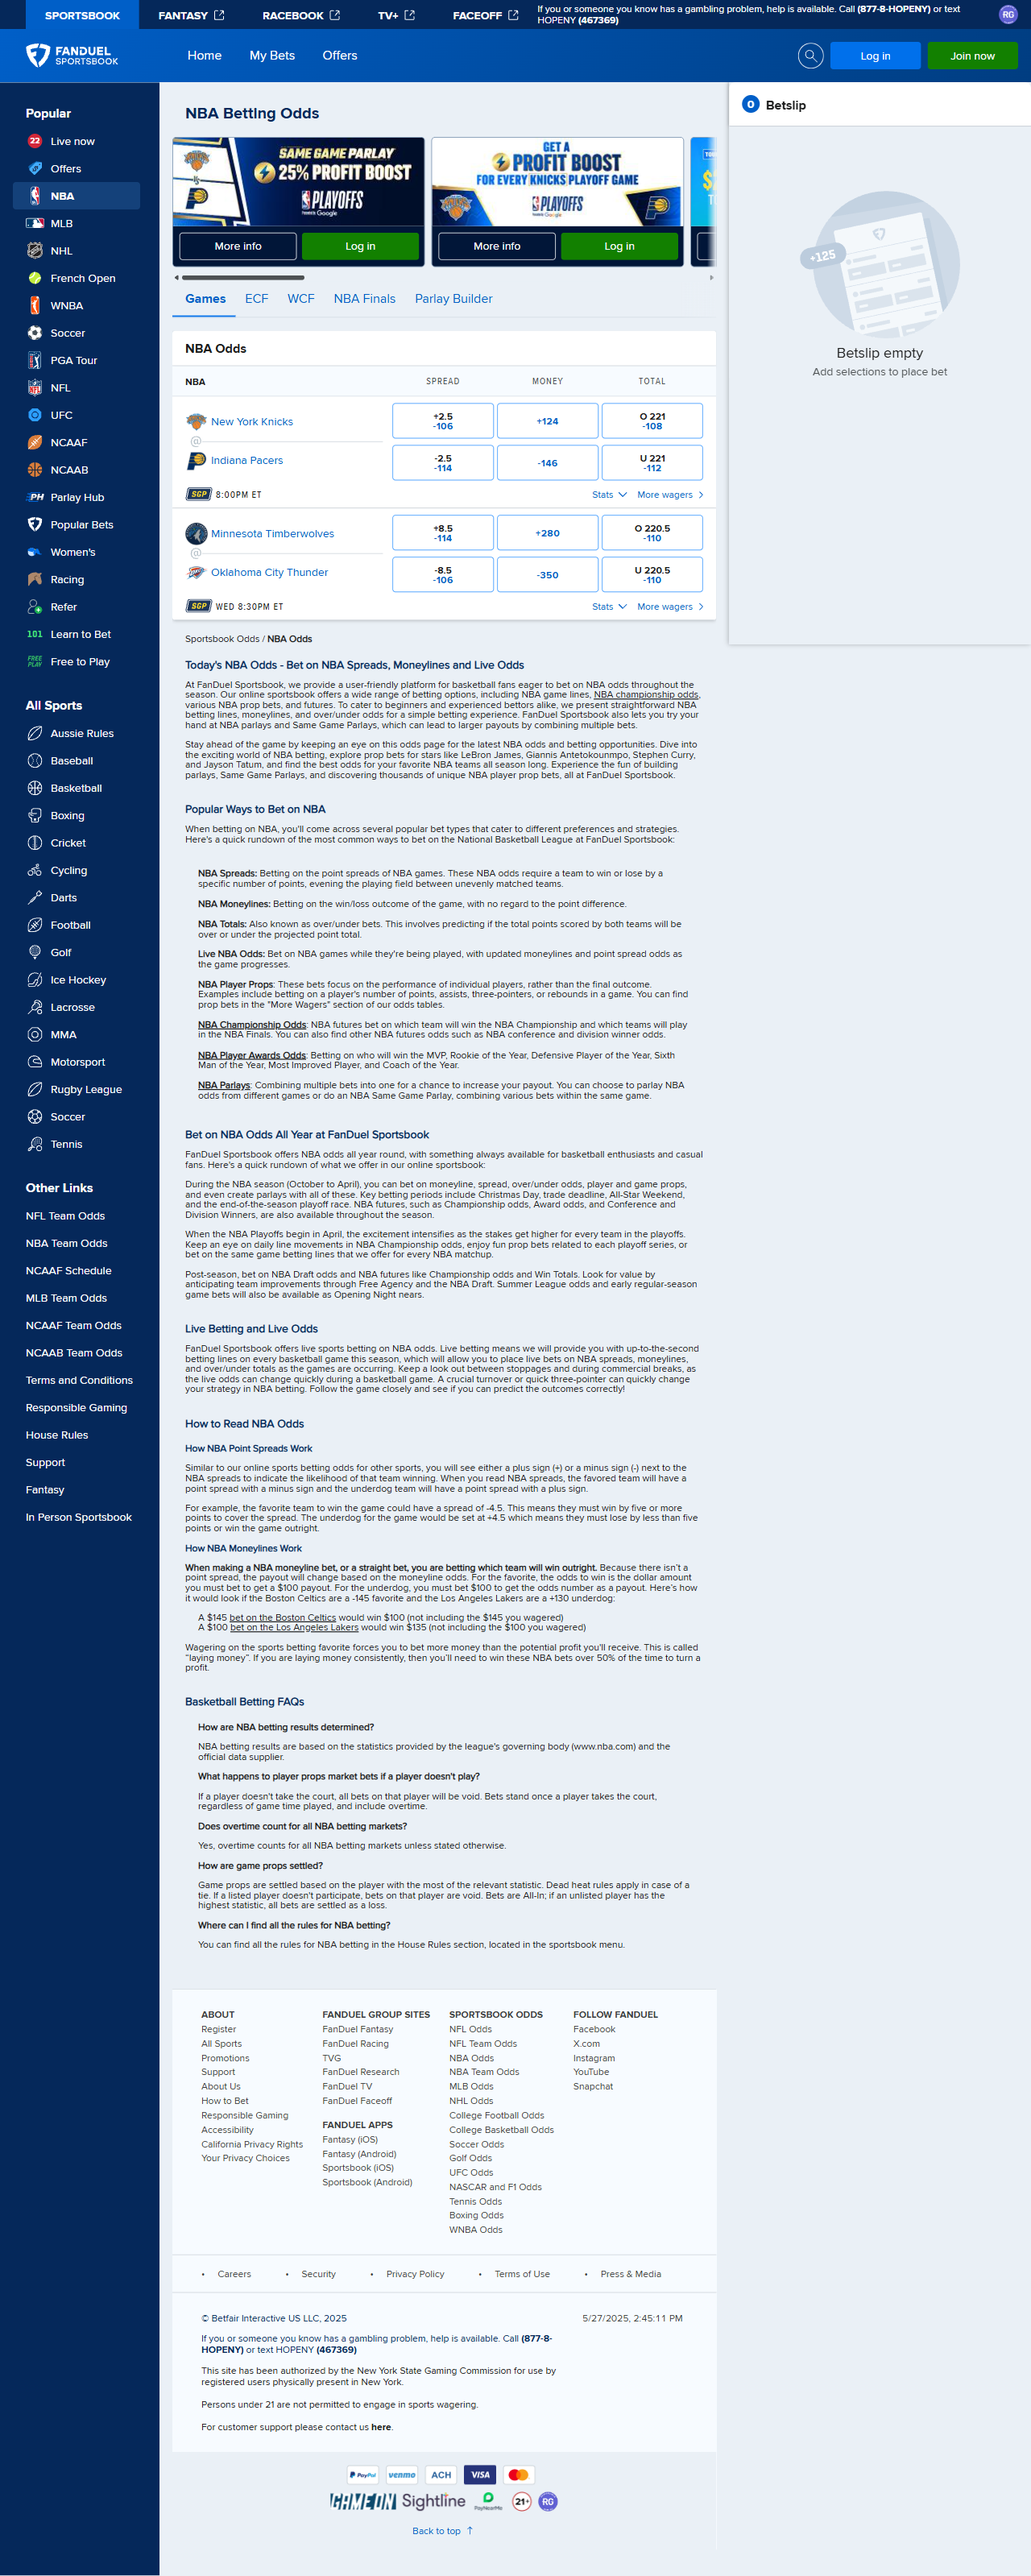
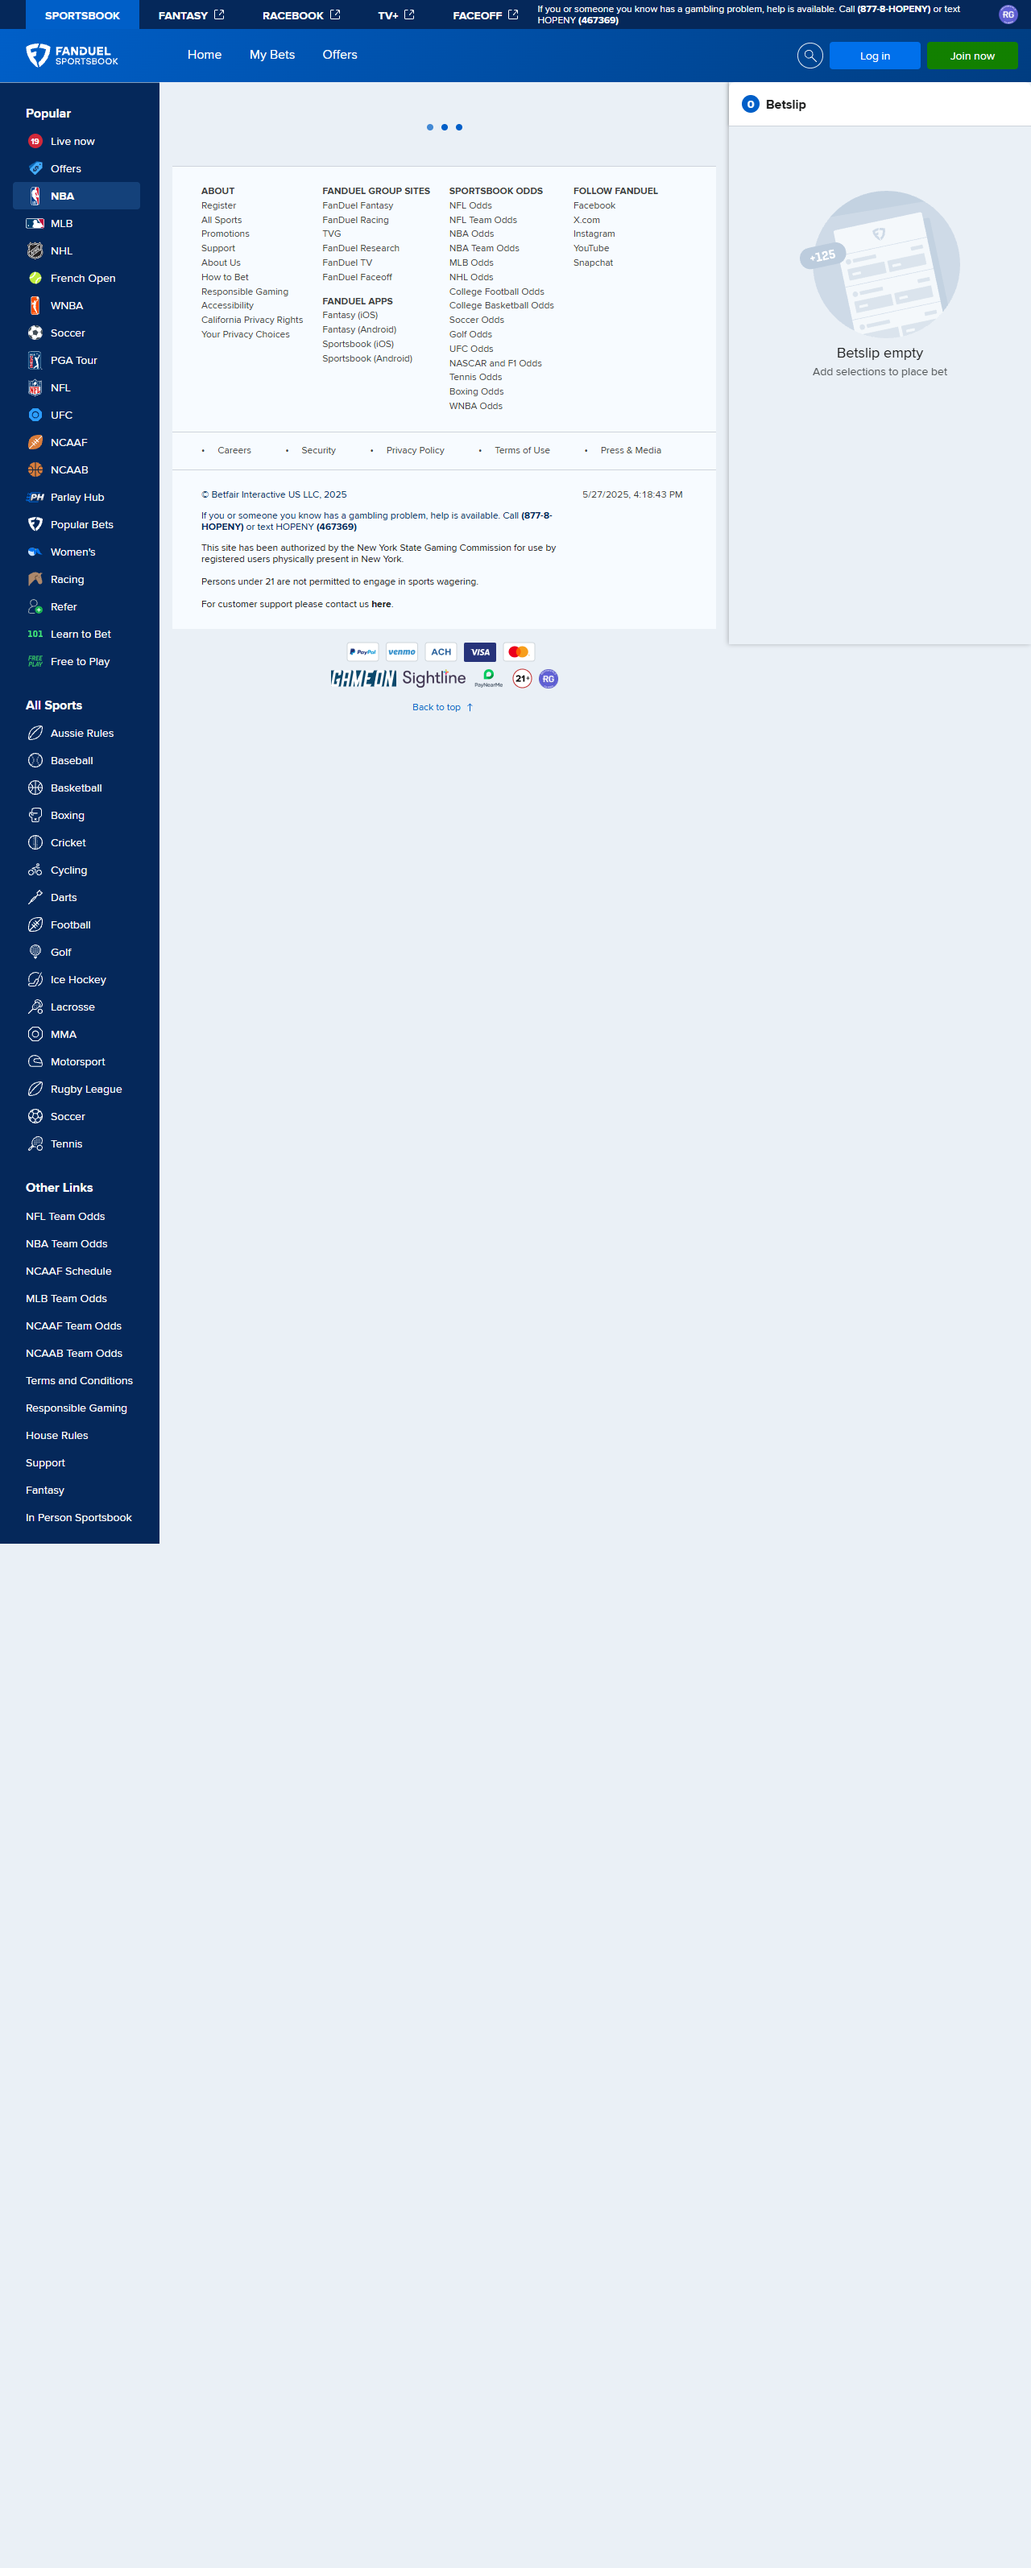
headless scraping

diff --git a/scripts/puppeteerscrape.js b/scripts/puppeteerscrape.js
@@ -18,7 +18,7 @@ function getESTTimestamp() {
 }
 
 (async () => {
-    const browser = await puppeteer.launch({ headless: false, slowMo: 50 });
+    const browser = await puppeteer.launch({ headless: true });
     const page = await browser.newPage();
 
     await page.setViewport({ width: 1280, height: 800 });
